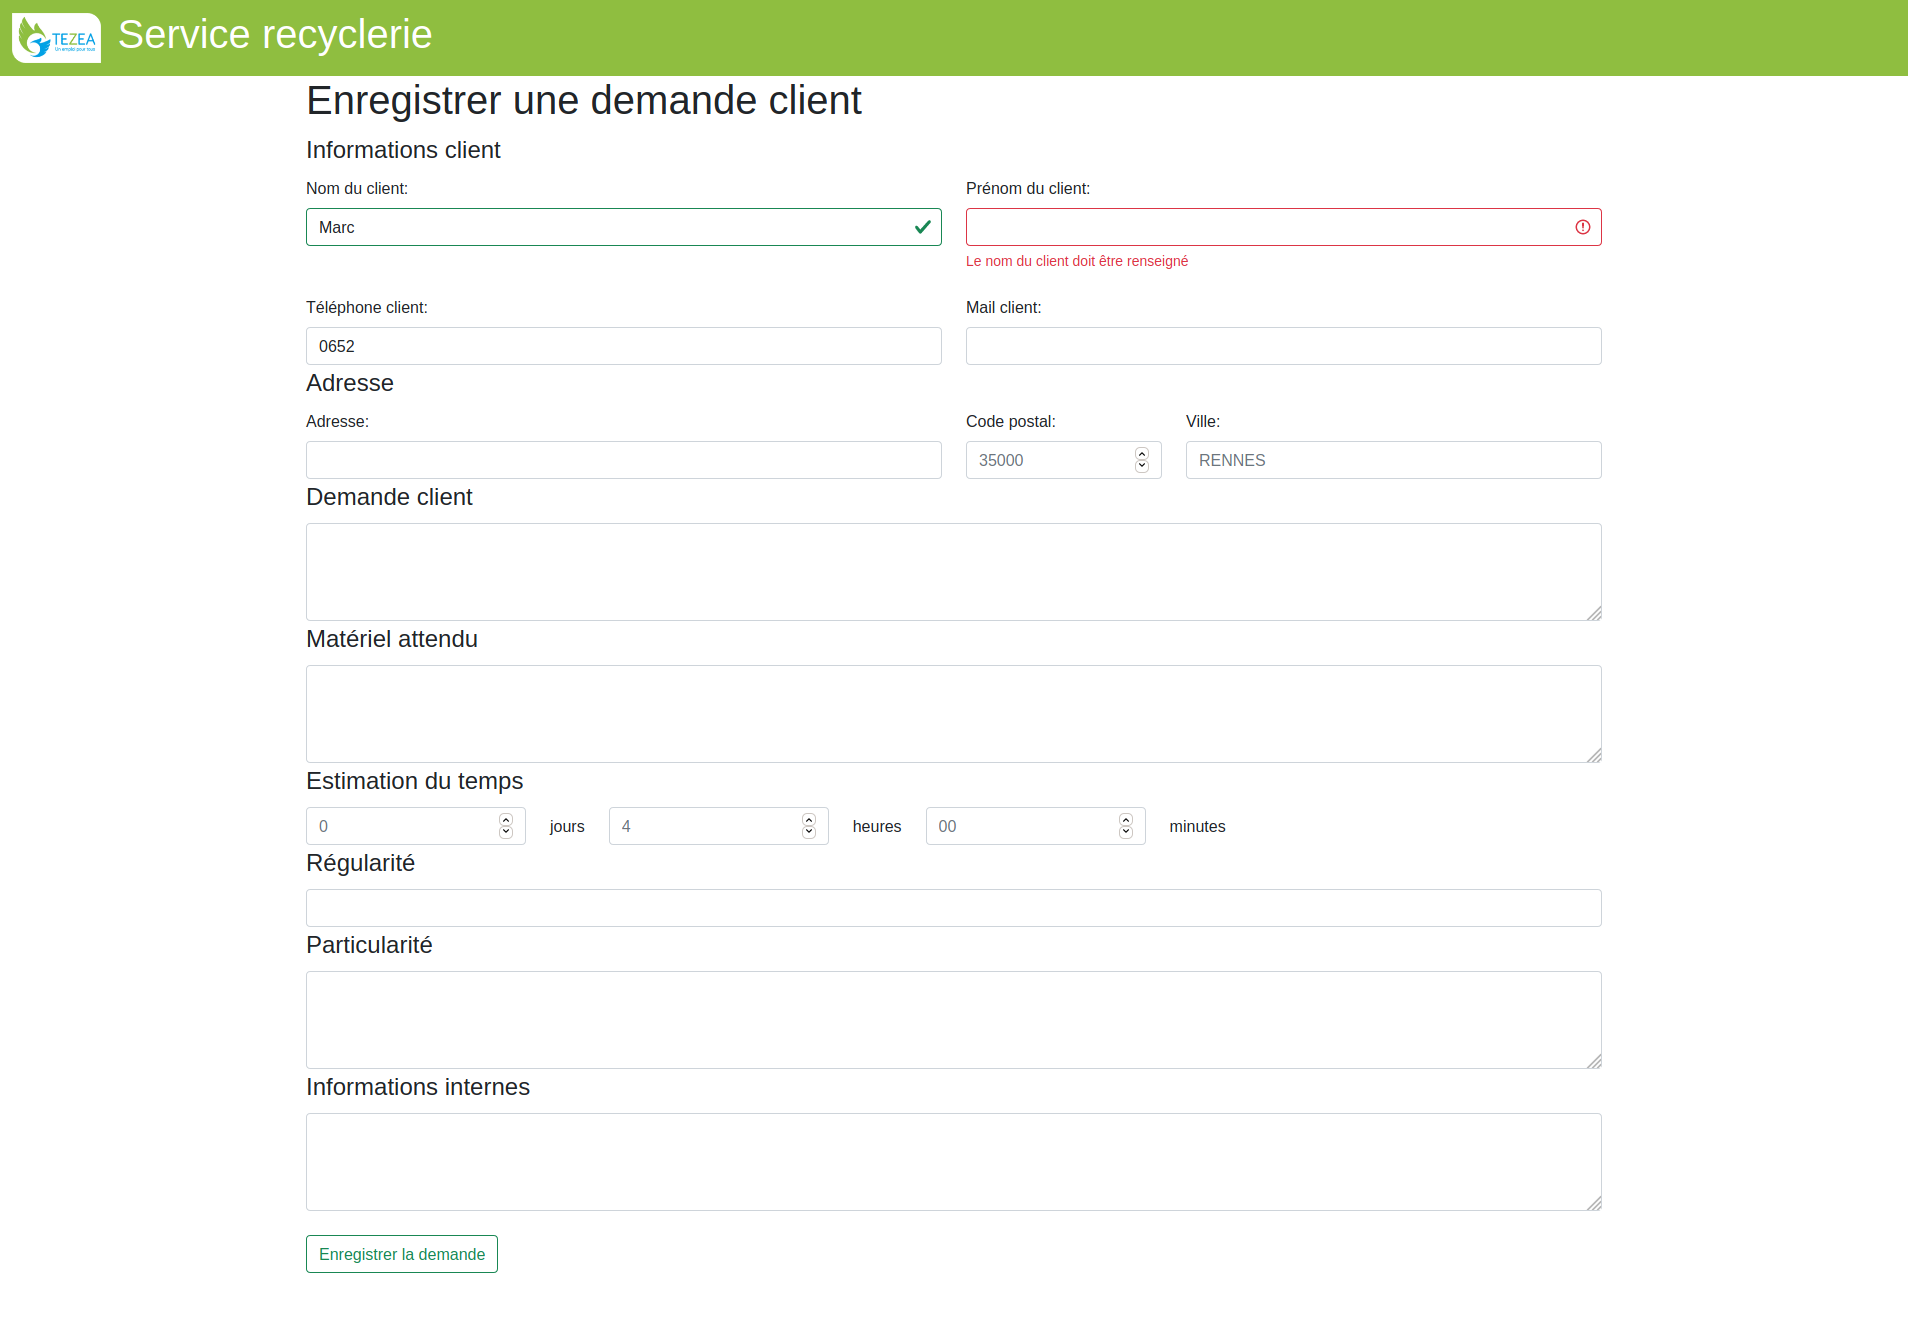
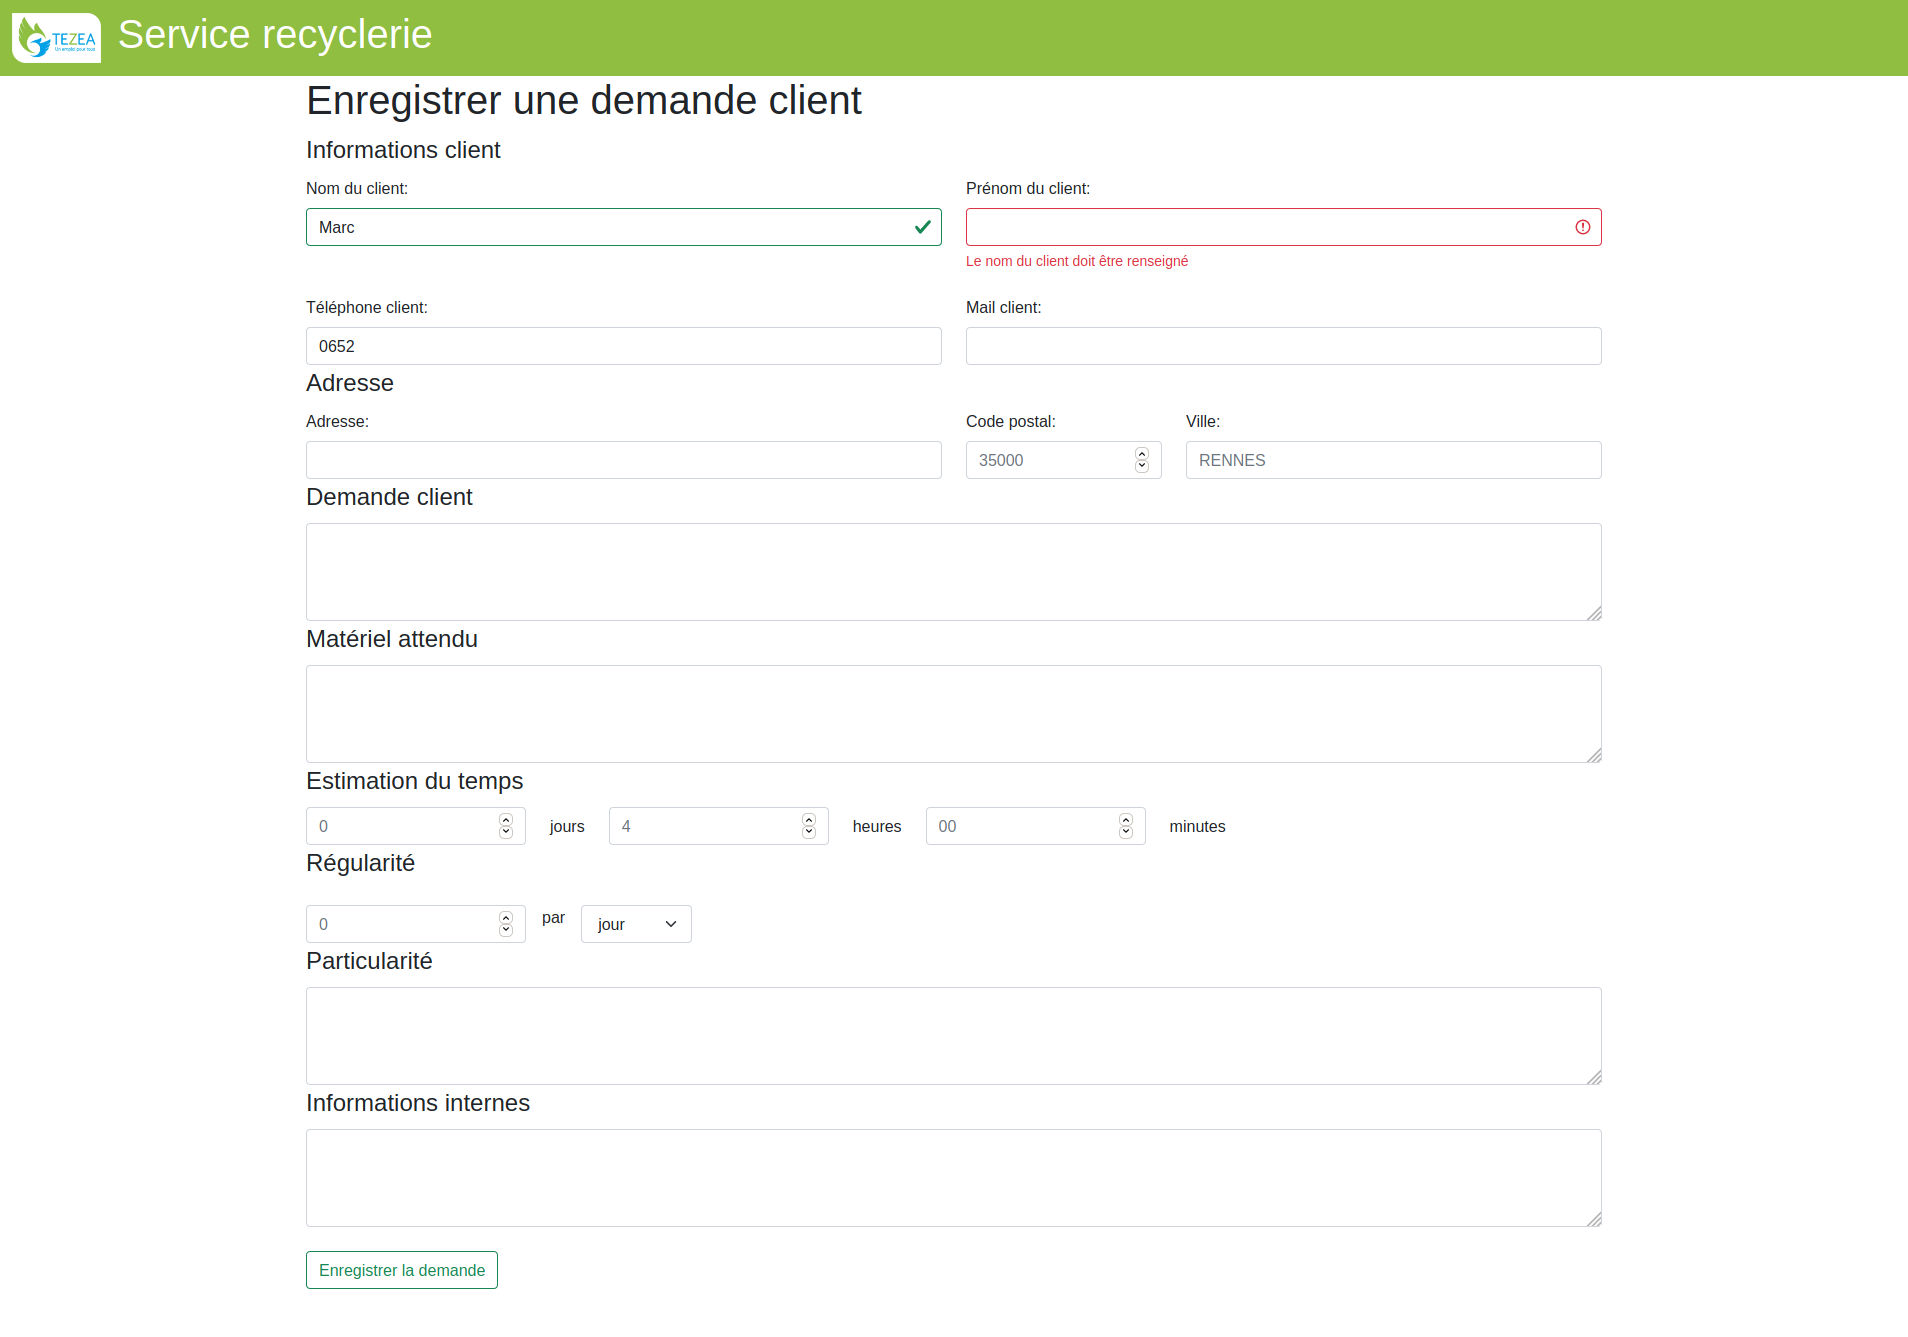
support version mobile

diff --git a/maquette/maquette.html b/maquette/maquette.html
@@ -37,7 +37,7 @@
           <legend>Informations client</legend>
 
           <div class="row">
-            <div class="col-6">
+            <div class="col-md-6">
               <label for="client_fname" class="form-label"
                 >Nom du client:</label
               >
@@ -48,7 +48,7 @@
                 class="form-control is-valid"
               />
             </div>
-            <div class="col-6">
+            <div class="col-md-6">
               <label for="client_lname" class="form-label"
                 >Prénom du client:</label
               >
@@ -65,7 +65,7 @@
           </div>
           <br />
           <div class="row">
-            <div class="col-6">
+            <div class="col-md-6">
               <label for="client_tel" class="form-label"
                 >Téléphone client:</label
               >
@@ -76,7 +76,7 @@
                 class="form-control"
               />
             </div>
-            <div class="col-6">
+            <div class="col-md-6">
               <label for="client_mail" class="form-label">Mail client:</label>
               <input
                 type="email"
@@ -91,7 +91,7 @@
         <fieldset>
           <legend>Adresse</legend>
           <div class="row">
-            <div class="col-6">
+            <div class="col-md-6">
               <label for="client_addr" class="form-label">Adresse:</label>
               <input
                 type="text"
@@ -100,7 +100,7 @@
                 class="form-control"
               />
             </div>
-            <div class="col-2">
+            <div class="col-md-2">
               <label for="client_pcode" class="form-label">Code postal:</label>
               <input
                 type="number"
@@ -110,7 +110,7 @@
                 placeholder="35000"
               />
             </div>
-            <div class="col-4">
+            <div class="col-md-4">
               <label for="client_city" class="form-label">Ville:</label>
               <input
                 type="text"
@@ -182,12 +182,31 @@
 
         <fieldset>
           <legend>Régularité</legend>
-          <input
-            type="text"
-            id="task_regularity"
-            name="task_regularity"
-            class="form-control"
-          />
+          <div class="row g-3">
+            <div class="col-auto">
+                <input
+                  type="number"
+                  id="task_nb_regularity"
+                  name="task_nb_regularity"
+                  class="form-control"
+                  placeholder="0"
+                />
+
+            </div>
+            <div class="col-auto form-label">
+                par
+            </div>
+            <div class="col-auto">
+                <select class="form-select" id="task_unit_regularity">
+                  <option value="day">jour</option>
+                  <option value="week">semaine</option>
+                  <option value="month">mois</option>
+                  <option value="year">année</option>
+                </select>
+                
+            </div>
+
+          </div>
         </fieldset>
 
         <fieldset>
